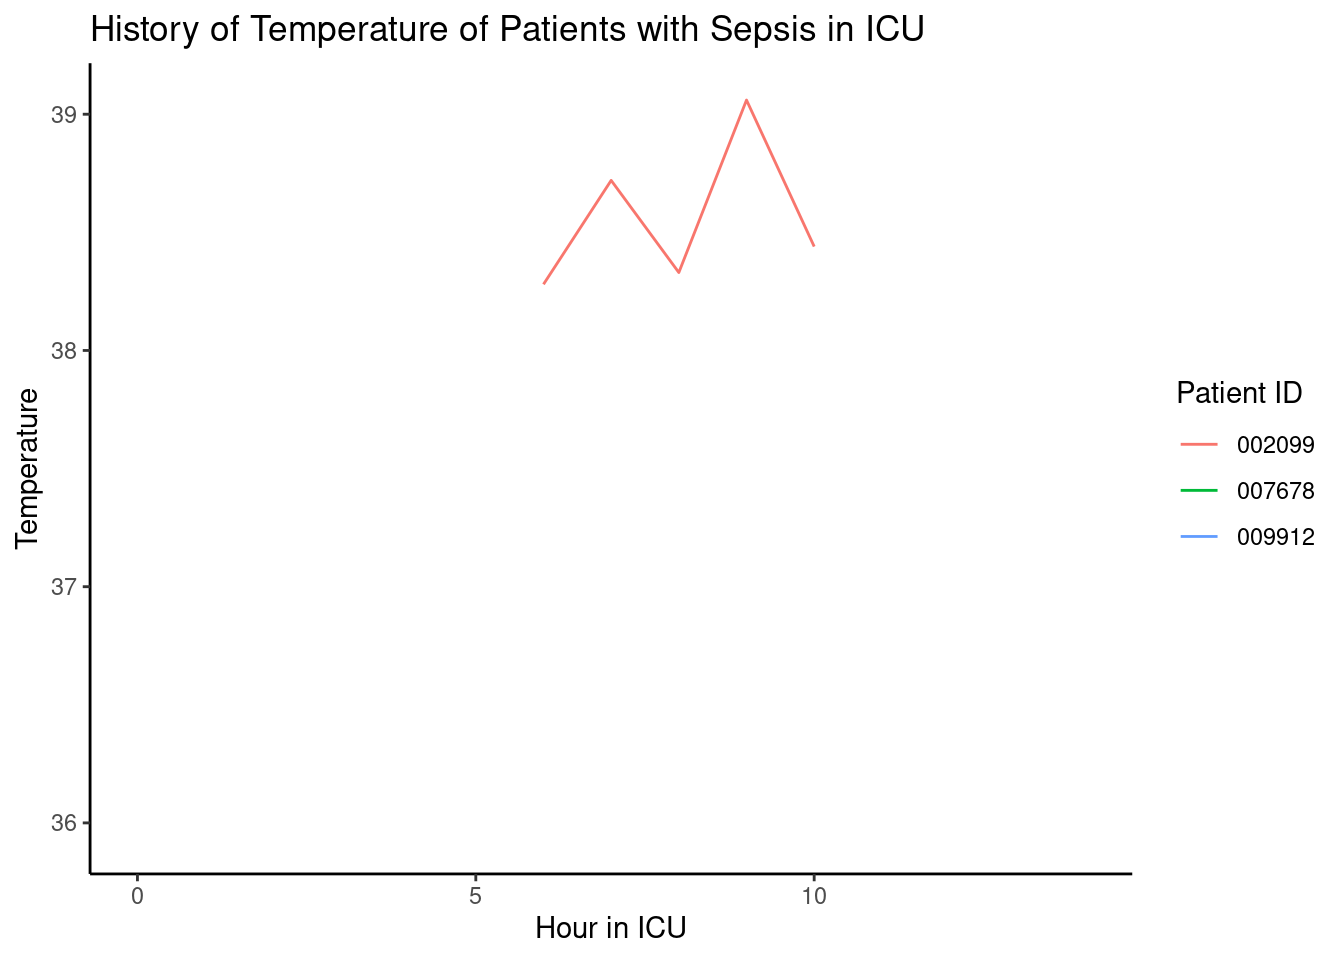
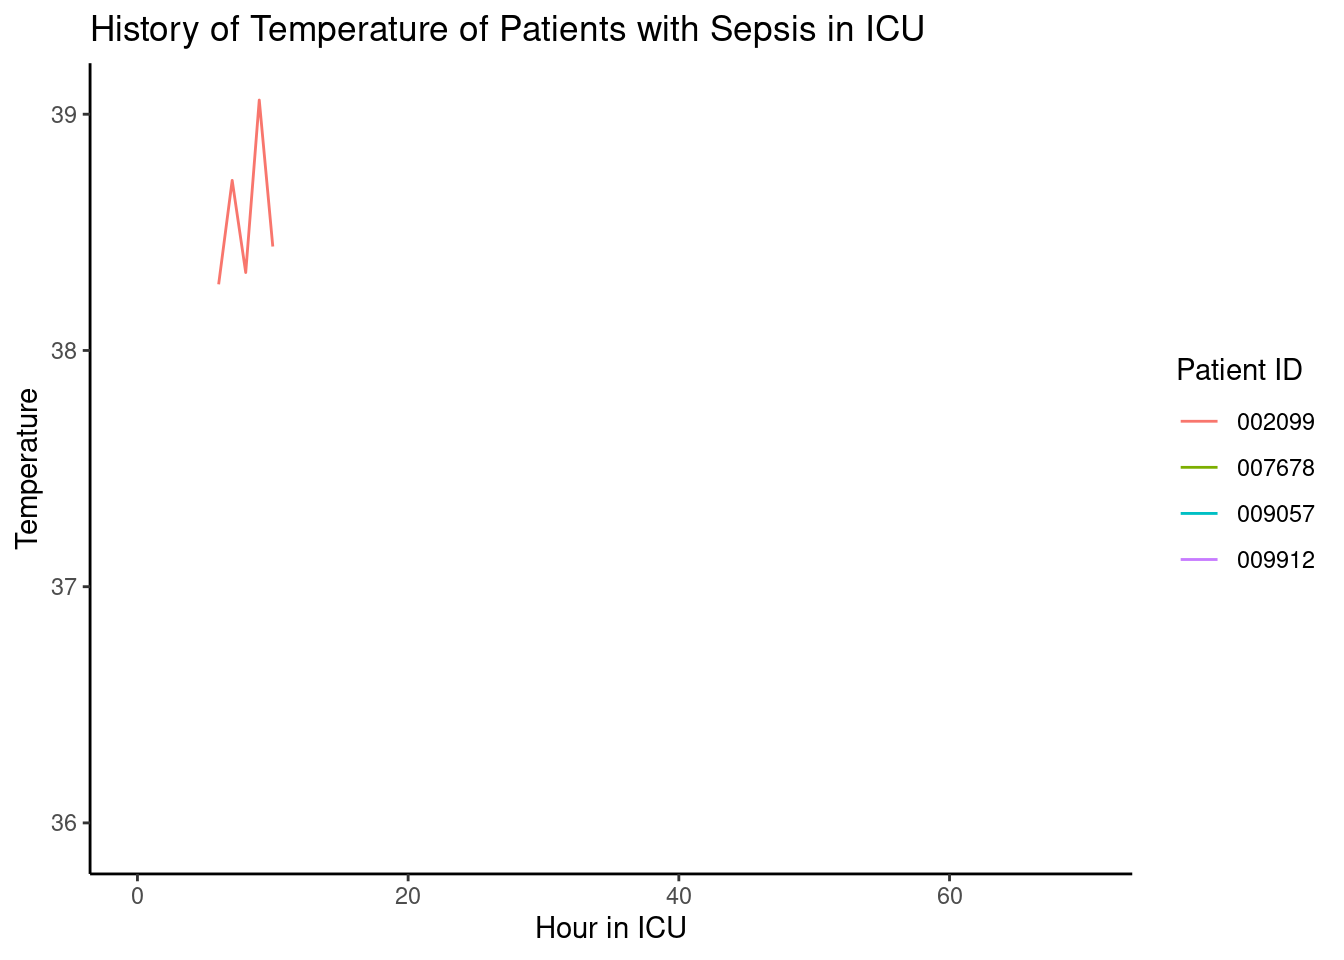
Updated report

diff --git a/HW7.html b/HW7.html
@@ -72,7 +72,7 @@ ul.task-list li input[type="checkbox"] {
 
 <div class="cell">
 <div class="cell-output cell-output-stdout">
-<pre><code>This report was updated at 2023-04-09 07:15:45 CDT</code></pre>
+<pre><code>This report was updated at 2023-04-09 08:21:22 CDT</code></pre>
 </div>
 </div>
 <div class="cell">
@@ -100,6 +100,12 @@ ul.task-list li input[type="checkbox"] {
    <td style="text-align:right;"> 81 </td>
    <td style="text-align:right;"> NA </td>
    <td style="text-align:right;"> 20 </td>
+  </tr>
+  <tr>
+   <td style="text-align:left;"> 009057 </td>
+   <td style="text-align:right;"> 67 </td>
+   <td style="text-align:right;"> NA </td>
+   <td style="text-align:right;"> 17 </td>
   </tr>
   <tr>
    <td style="text-align:left;"> 009912 </td>
@@ -163,9 +169,9 @@ ul.task-list li input[type="checkbox"] {
   </tr>
   <tr>
    <td style="text-align:left;font-weight: bold;color: black !important;background-color: lightgrey !important;border-right:1px solid;"> 000795 </td>
-   <td style="text-align:right;"> 5 </td>
+   <td style="text-align:right;"> -9 </td>
    <td style="text-align:right;"> NA </td>
-   <td style="text-align:right;"> -2 </td>
+   <td style="text-align:right;"> 0 </td>
   </tr>
   <tr>
    <td style="text-align:left;font-weight: bold;color: black !important;background-color: lightgrey !important;border-right:1px solid;"> 001135 </td>
@@ -409,9 +415,9 @@ ul.task-list li input[type="checkbox"] {
   </tr>
   <tr>
    <td style="text-align:left;font-weight: bold;color: black !important;background-color: lightgrey !important;border-right:1px solid;"> 009057 </td>
-   <td style="text-align:right;"> -13 </td>
+   <td style="text-align:right;"> -11 </td>
    <td style="text-align:right;"> NA </td>
-   <td style="text-align:right;"> 4 </td>
+   <td style="text-align:right;"> -1 </td>
   </tr>
   <tr>
    <td style="text-align:left;font-weight: bold;color: black !important;background-color: lightgrey !important;border-right:1px solid;"> 009141 </td>
